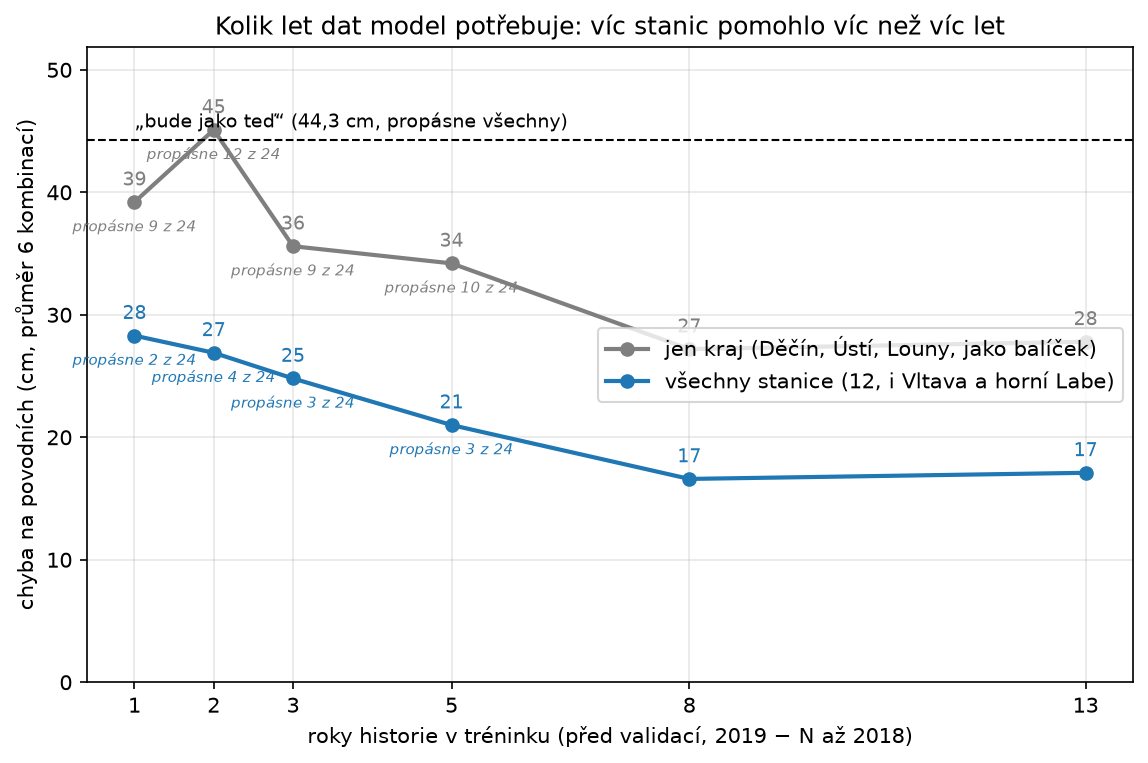
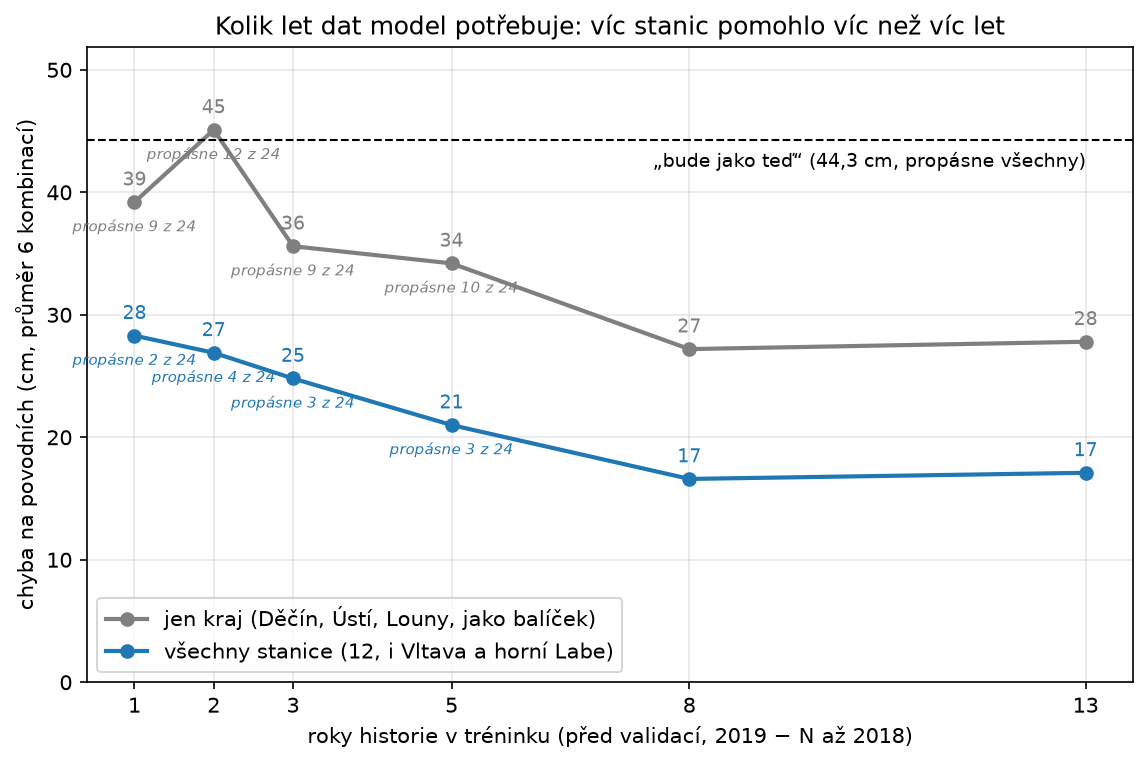
Honza: graf učicí křivky s počtem propásnutých povodní

diff --git a/src/kolik_dat.py b/src/kolik_dat.py
@@ -58,14 +58,14 @@ def graf(T):
                 ax.annotate(f"propásne {int(t.propasnuto[n])} z 24", (n, v), textcoords="offset points", xytext=(0, -14),
                             ha="center", fontsize=7, color=barva, style="italic")
     ax.axhline(JAKO_TED, color="black", ls="--", lw=1)
-    ax.text(LETA[0], JAKO_TED + 1, "„bude jako teď“ (44,3 cm, propásne všechny)", ha="left", fontsize=9)
+    ax.text(LETA[-1], JAKO_TED - 1, "„bude jako teď“ (44,3 cm, propásne všechny)", ha="right", va="top", fontsize=9)
     ax.set_xticks(LETA)
     ax.set_xlabel("roky historie v tréninku (před validací, 2019 − N až 2018)")
     ax.set_ylabel("chyba na povodních (cm, průměr 6 kombinací)")
     ax.set_title("Kolik let dat model potřebuje: víc stanic pomohlo víc než víc let")
     ax.set_ylim(0, max(JAKO_TED, T.prumer_povodne.max()) * 1.15)
     ax.grid(alpha=0.3)
-    ax.legend(loc="center right")
+    ax.legend(loc="lower left")
     fig.savefig(GRAF, dpi=150, bbox_inches="tight")
 
 
